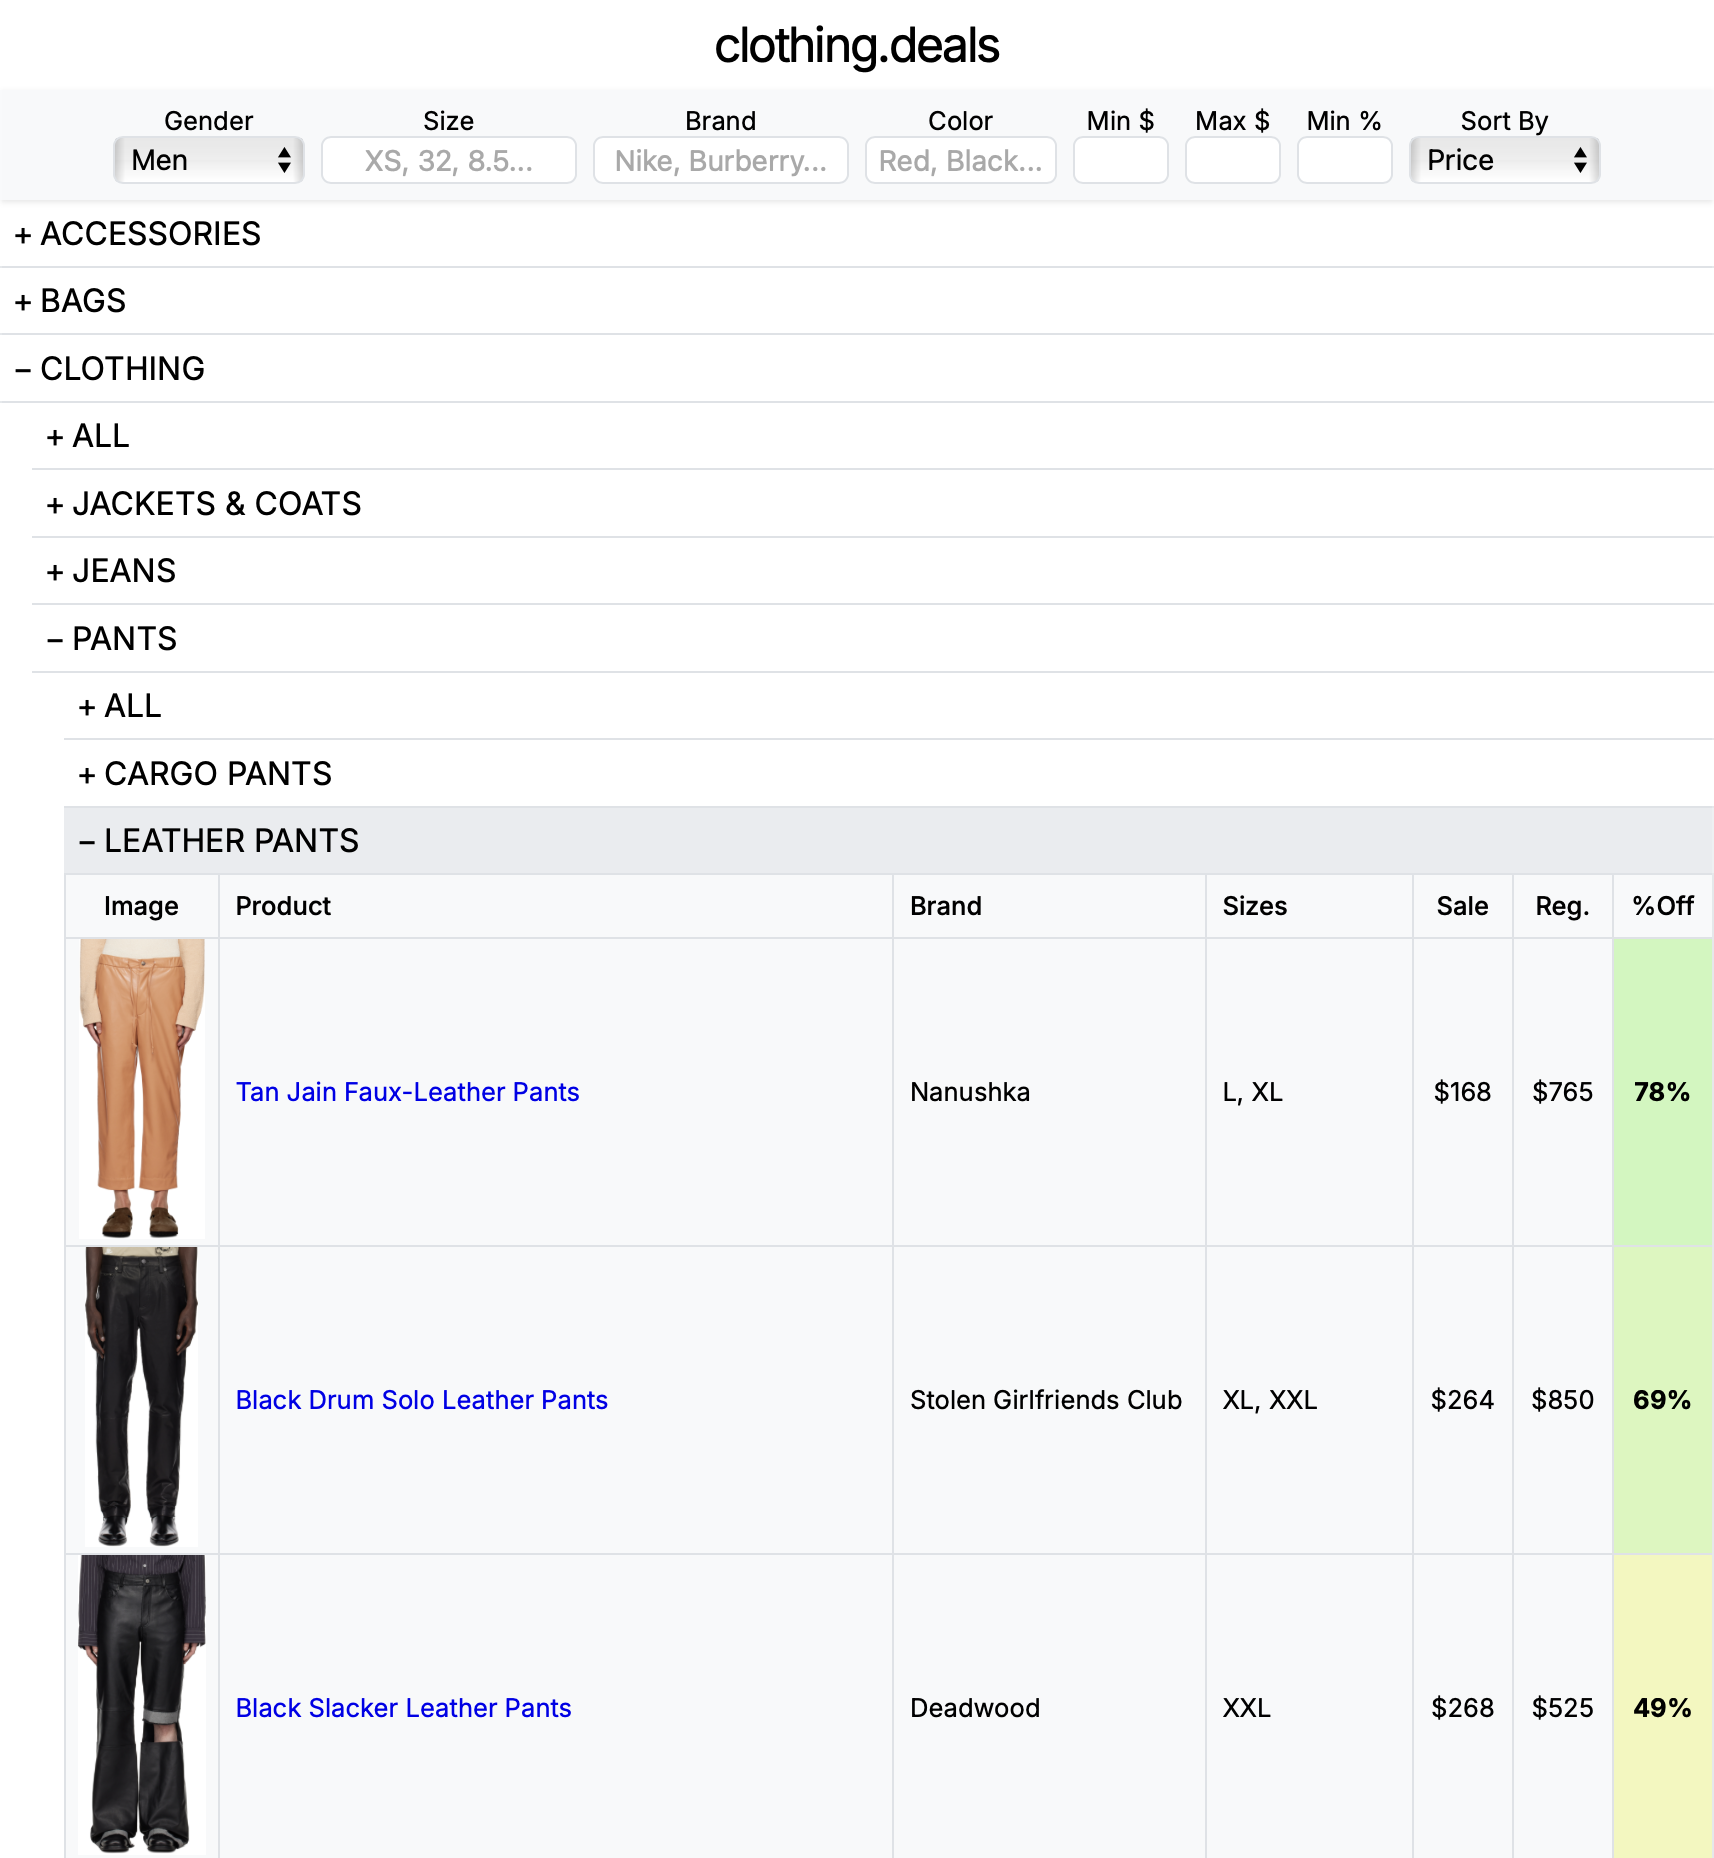
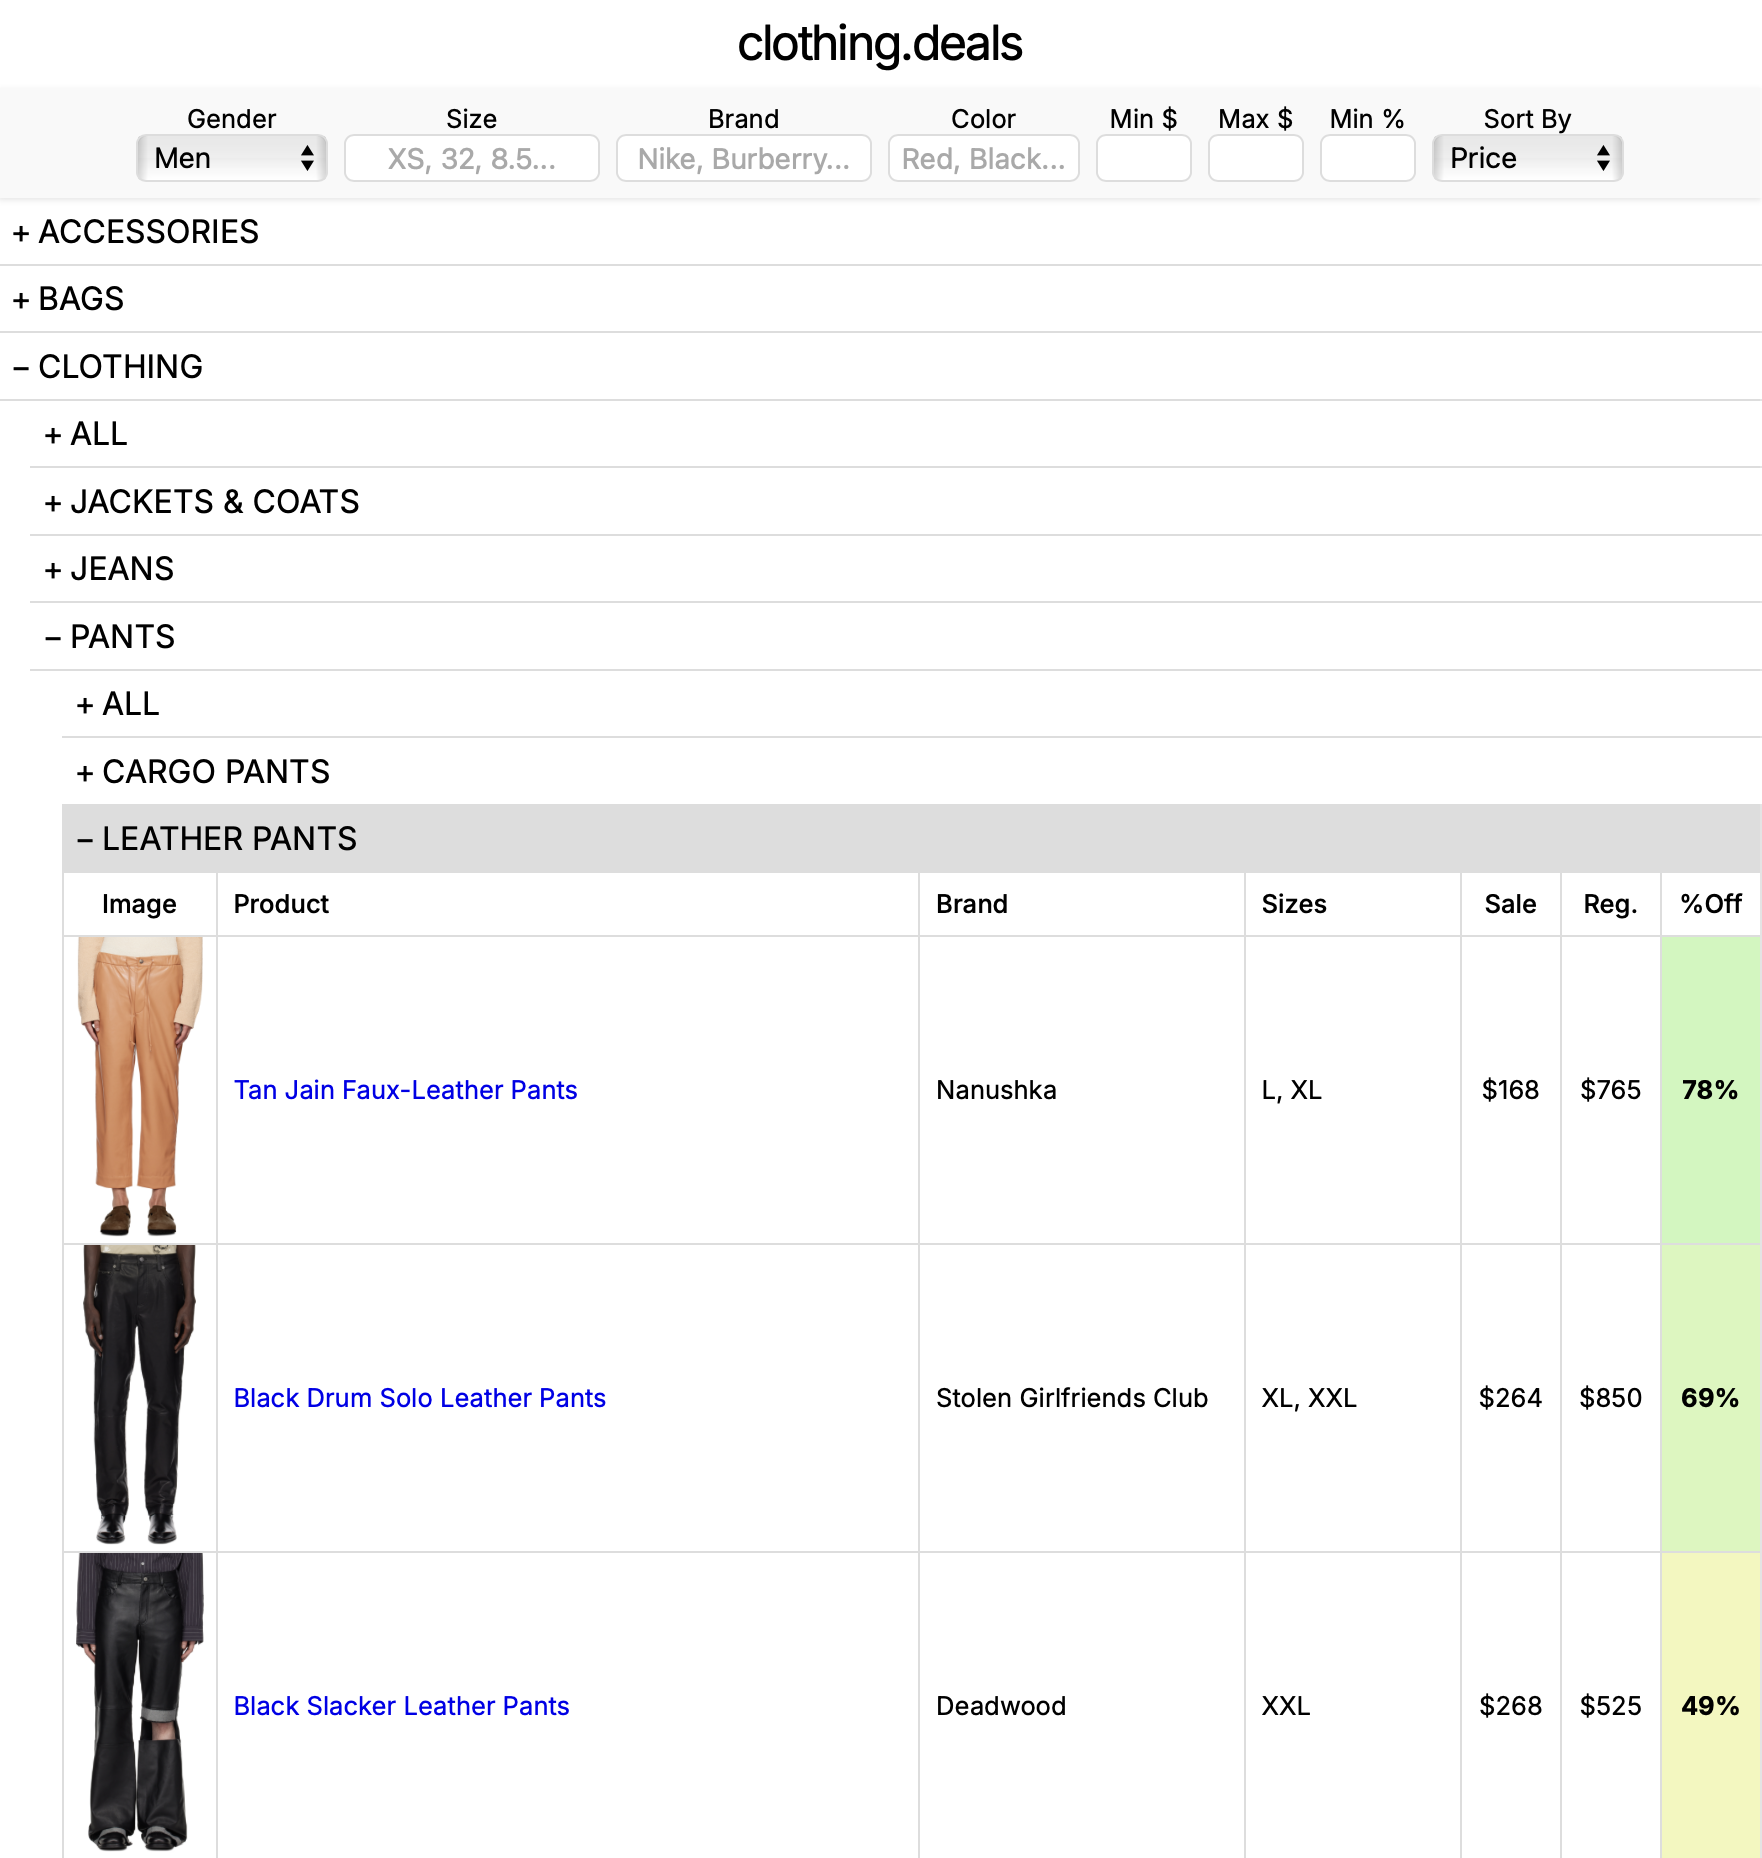
Minor tweaks to colors and hovering.

diff --git a/index.html b/index.html
@@ -1,5 +1,5 @@
 <!DOCTYPE html>
-<html>
+<html lang="en">
 <head>
     <meta charset="UTF-8">
     <meta name="viewport" content="width=device-width">
@@ -14,8 +14,8 @@
             box-sizing: border-box;
         }
         :root {
-            --border: #dee2e6;
-            --stripe: #f8f9fa;
+            --lightgrey: #f9f9f9;
+            --darkgrey: #dddddd;
         }
         body {
             font-family: 'Inter', sans-serif;
@@ -34,7 +34,7 @@
             display: flex;
             flex-wrap: wrap;
             justify-content: center;
-            background: var(--stripe);
+            background: var(--lightgrey);
             padding: .5rem;
             gap: .5rem;
             box-shadow: 0 1px 3px rgba(0, 0, 0, .1);
@@ -52,7 +52,7 @@
         select {
             height: 1.5rem;
             width: 6rem;
-            border: 1px solid var(--border);
+            border: 1px solid var(--darkgrey);
             border-radius: 5px;
             font-size: .9rem;
             text-align: center;
@@ -74,10 +74,10 @@
             display: flex;
             align-items: center;
             padding: .2rem;
-            border-bottom: 1px solid var(--border);
+            border-bottom: 1px solid var(--darkgrey);
         }
         #catalog span:hover {
-            background: #e9ecef;
+            background: var(--darkgrey);
         }
         #catalog .toggle {
             border: none;
@@ -97,10 +97,9 @@
         }
         #catalog th,
         #catalog td {
-            background: var(--stripe);
             padding: .5rem;
             text-align: left;
-            border: 1px solid var(--border);
+            border: 1px solid var(--darkgrey);
             border-top: none;
             vertical-align: middle;
         }
@@ -109,9 +108,7 @@
         }
         #catalog td {
             word-break: break-word;
-        }
-        #catalog tr:hover {
-            background: var(--stripe);
+            hyphens: auto;
         }
         #catalog img {
             max-width: 100px;
@@ -139,7 +136,6 @@
             cursor: pointer;
             max-width: 90vw;
             max-height: 90vh;
-            object-fit: contain;
             box-shadow: 0 8px 24px rgba(0,0,0,0.3);
         }
     </style>
